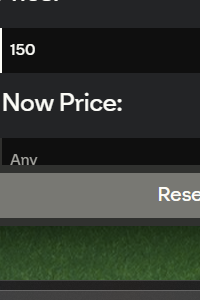
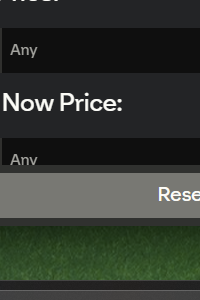
fixed it with new page

Changed region(s): [[0.0, 0.09, 0.18, 0.24]]

diff --git a/main.py b/main.py
@@ -20,6 +20,7 @@ def main():
 
     player_name = os.getenv("PLAYER_NAME")
     gold_rare= os.getenv("GOLD_RARE")
+    fantasy_hero = os.getenv("FANTASY_HERO")
     set_program_loop = int(os.getenv("SET_PROGRAM_LOOP"))
     set_trading_loop = int(os.getenv("SET_TRADING_LOOP"))
     set_timeout = int(os.getenv("SET_TIMEOUT"))
@@ -61,7 +62,7 @@ def main():
             time.sleep(get_random_time())
 
             player_search_button_x = 970
-            player_search_button_y = 480
+            player_search_button_y = 490
 
             pyautogui.click(player_search_button_x, player_search_button_y)
 
@@ -69,7 +70,7 @@ def main():
                 time.sleep(get_random_time())
 
                 select_quality_button_x = 880
-                select_quality_button_y = 450
+                select_quality_button_y = 460
 
                 pyautogui.click(select_quality_button_x, select_quality_button_y)
 
@@ -94,19 +95,51 @@ def main():
 
                 pyautogui.click(select_rare_rarity_button_x, select_rare_rarity_button_y)
 
+            if fantasy_hero == "yes":
+                time.sleep(get_random_time())
+
+                select_quality_button_x = 880
+                select_quality_button_y = 460
+
+                pyautogui.click(select_quality_button_x, select_quality_button_y)
+
+                time.sleep(get_random_time())
+
+                select_fantasy_hero_button_x = 880
+                select_fantasy_hero_button_y = 680
+
+                pyautogui.click(select_fantasy_hero_button_x, select_fantasy_hero_button_y)
+
+                time.sleep(get_random_time())
+
+                rarity_button_x = 1080
+                rarity_button_y = 460
+
+                pyautogui.click(rarity_button_x, rarity_button_y)
+
+                # click for scroll
+                pyautogui.click(1500, 600)
+
+                time.sleep(get_random_time())
+
+                select_rare_rarity_button_x = 1080
+                select_rare_rarity_button_y = 700
+
+                pyautogui.click(select_rare_rarity_button_x, select_rare_rarity_button_y)
+
             time.sleep(get_random_time())
 
             minus_button_x = 500
-            minus_button_y = 770
+            minus_button_y = 790
 
             plus_button_x = 950
-            plus_button_y = 770
+            plus_button_y = 790
 
             go_back_button_x = 140
-            go_back_button_y = 180
+            go_back_button_y = 210
 
             min_bid_price_button_x = 580
-            min_bid_price_button_y = 770
+            min_bid_price_button_y = 790
 
             pyautogui.click(min_bid_price_button_x, min_bid_price_button_y)
             pyautogui.typewrite("150")
@@ -114,7 +147,7 @@ def main():
             time.sleep(get_random_time())
 
             max_buy_now_price_button_x = 1140
-            max_buy_now_price_button_y = 880
+            max_buy_now_price_button_y = 895
 
             pyautogui.click(max_buy_now_price_button_x, max_buy_now_price_button_y)
             pyautogui.typewrite(max_buy_now_price)
@@ -148,24 +181,23 @@ def main():
                     pyautogui.click(buy_item_button_x, buy_item_button_y)
 
                     get_item_button_x = 970
-                    get_item_button_y = 600
+                    get_item_button_y = 620
                     pyautogui.click(get_item_button_x, get_item_button_y)
 
                     now = datetime.now()
+                    now_string = now.strftime("%d_%m_%Y_%H_%M_%S")
 
-                    print(f"player found at: {now}; and tried to buy the player:", player_name)
-                    
                     if not os.path.exists(f"assets/{player_name}"):
                         os.makedirs(f"assets/{player_name}")
 
-                    time.sleep(get_random_time())
+                    time.sleep(2)
 
                     check_player = pyautogui.screenshot()
 
-                    now_string = now.strftime("%d_%m_%Y_%H_%M_%S")
-
                     player_image = f"{player_name}/{now_string}.png"
                     check_player.save(f"assets/{player_image}")
+
+                    print(f"player found at: {now}; and tried to buy the player:", player_name)
                 
                 time.sleep(get_random_time())
 

diff --git a/test.py b/test.py
@@ -19,9 +19,9 @@ def main():
 
         time.sleep(1)
 
-        get_item_button_x = 970
-        get_item_button_y = 600
-        pyautogui.moveTo(get_item_button_x, get_item_button_y)
+        button_x = 970
+        button_y = 620
+        pyautogui.moveTo(button_x, button_y)
 
         time.sleep(1)
 
